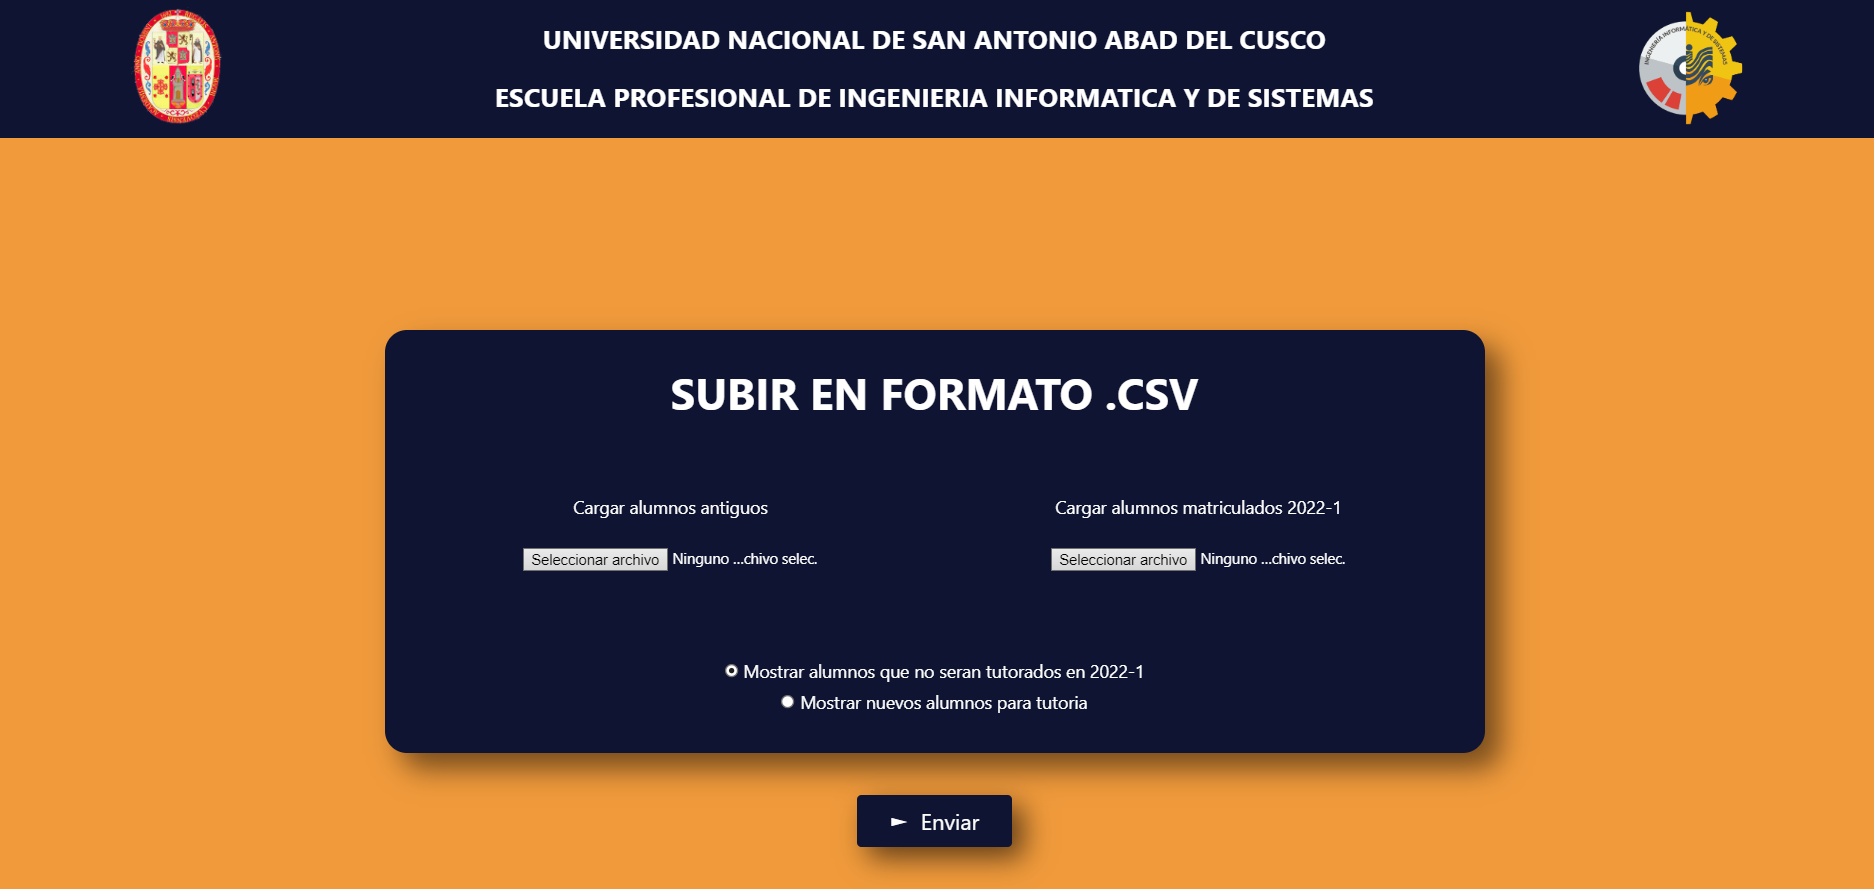
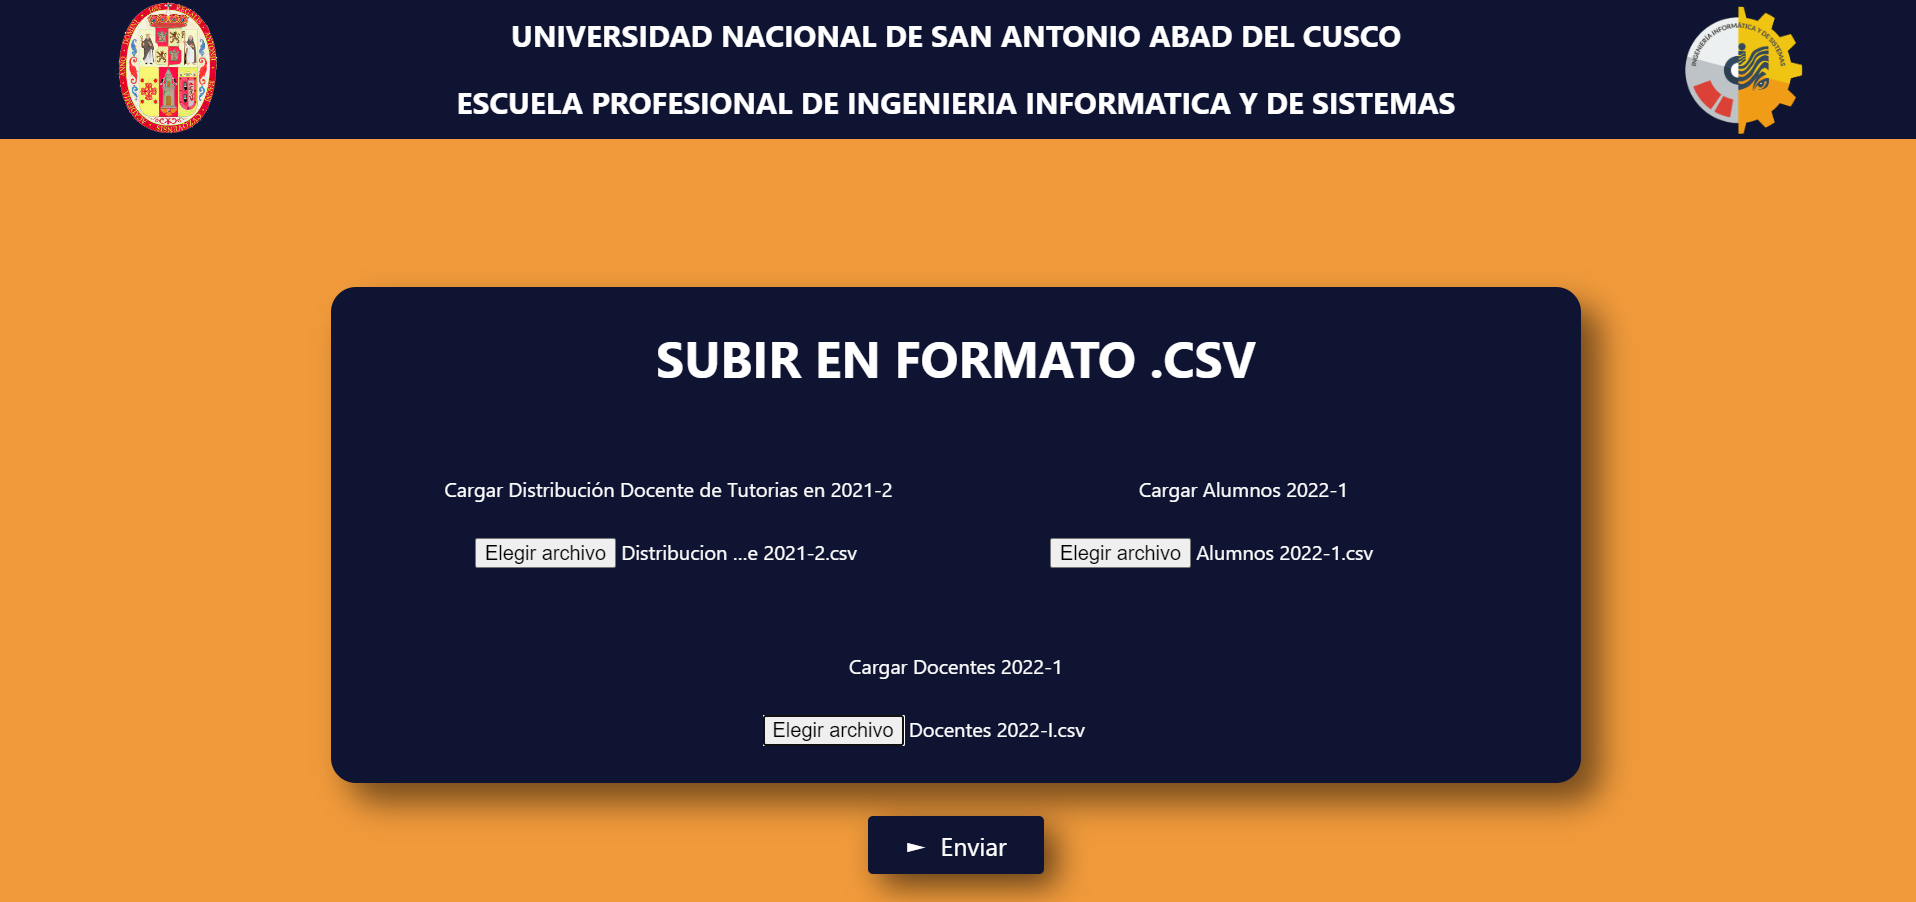
Readme final

diff --git a/Readme.md b/Readme.md
@@ -2,7 +2,22 @@
 
 ## Descripcion
 
-Para este proyecto se nos dispondra de dos archivos en formato ***csv***, donde tendremos la informacion de ***alumnos matriculados en el semestre 2021-II*** y los ***nuevos alumnos matriculados en el semestre 2022-I***, nuestro proposito es mostrar a los alumnos que no serán tutorados en 2022-I y mostrar nuevos alumnos que requieren tutoría.
+Para este proyecto se nos pidio desarrollar la funcionalidad que permita realizar la distribución balanceada de los estudiantes a los tutores para el presente semestre 2022-1.
+
+## Datos de entrada
+* Archivo CVS Lista de alumnos matriculados en el presente semestre.
+* Archivo CVS Lista de docentes para el presente semestre.
+* Archivo CVS Distribución de tutorías del anterior semestre.
+
+## Resultados
+* Archivo CSV Lista de alumnos ya no son considerados en la tutoría (Alumnos no matriculados en el presente semestre).
+* Archivo CSV Distribución balanceada de tutorías para el presente semestre.
+
+## Restricciones
+* Distribución balanceada: Distribución equitativa de estudiantes a tutores y Que el docente tenga alumnos de diferentes códigos.
+* Implementación de una interface para el usuario sencilla, intuitiva y práctica.
+* Mantener la lista de tutorías del anterior semestre con el docente asignado.
+
 
 ## Funcionamiento
 
@@ -11,18 +26,18 @@ Para este proyecto se nos dispondra de dos archivos en formato ***csv***, donde 
 ![Subida de archivos csv](/screenshot/1.png)
 
 Lo primero que tenemos que hacer, es subir los datos en formato csv.
-* Tutorados_2021-II
-* Matriculados_2022-I
+* Distribucion x Docente 2021-2.csv
+* Alumnos 2022-1.csv
+* Docentes 2022-I.csv
 
-Una vez subidos los archivos csv seran capturados en el programa y llevar toda esa información a arreglos, los cuales contendrán por separado los códigos y los nombres de los alumnos.
-
-Tambien tenemos que selecionar la opcion que deseamos realizar.
-
-![Marcado de opcion](/screenshot/3.png)
+Una vez subidos los archivos csv seran capturados en el programa y se llevaran a una estructura de objetos.
 
 ### Mostrar datos
 
-Una vez subido los datos y marcada la opcion deseada, se mostrara los datos deseados.
+Una vez enviados los archivos, se mostrara la Distribucion de alumnos x Docente.
+De igual manera se podran descargar los archivos:
+* AlumnosNoTutorados.csv
+* DistribucionTutorados2022-I.csv
 
 ![Marcado de opcion](/screenshot/2.png)
 
